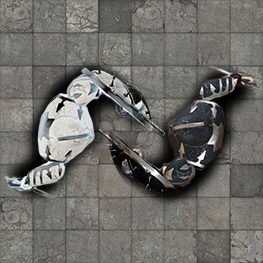
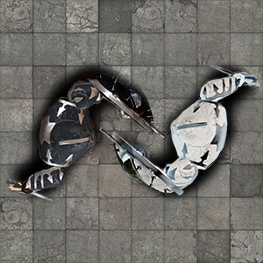
fix: Player direction.
Before this commit the player didn't change it's direction when moving. Now it does.

Changed region(s): [[0.0, 0.2433, 1.0, 0.7909]]

diff --git a/js/apiCalls.js b/js/apiCalls.js
@@ -122,8 +122,6 @@ function updateGameView(){
         bottom_right.setAttribute("style", 'background-image: url("assets/options/wallgif.gif");background-repeat: no-repeat;background-size: 101%;');
     }
 
-
-
     try{
         if(player.x === "0"){
             center_left.setAttribute("style", 'background-image: url("assets/options/wallgif.gif");background-repeat: no-repeat;background-size: 101%;');
@@ -154,7 +152,7 @@ function updateGameView(){
         } else if(map_objects[player.y][player.x] === 1){
             center_center.setAttribute("style", 'background-image: url("assets/options/loot.png");background-repeat: no-repeat;background-size: 101%;');
         } else {
-            center_center.setAttribute("style", 'background-image: url("assets/options/character.png");background-repeat: no-repeat;background-size: 101%;');
+            center_center.setAttribute("style", 'background-image: url("assets/options/character.png");background-repeat: no-repeat;background-size: 101%;transform:rotate('+ orientationFactor(player.direction) +'deg);');
         }
     } catch (e) {
         center_center.setAttribute("style", 'background-image: url("assets/options/wallgif.gif");background-repeat: no-repeat;background-size: 101%;');
@@ -179,8 +177,6 @@ function updateGameView(){
     } catch (e) {
         center_right.setAttribute("style", 'background-image: url("assets/options/wallgif.gif");background-repeat: no-repeat;background-size: 101%;');
     }
-
-
 
     try{
         if(player.x === "0"){
@@ -237,7 +233,6 @@ function updateGameView(){
     } catch (e) {
         top_right.setAttribute("style", 'background-image: url("assets/options/wallgif.gif");background-repeat: no-repeat;background-size: 101%;');
     }
-
 }
 
 function showHomeScreen(){

diff --git a/js/main.js b/js/main.js
@@ -39,19 +39,19 @@ document.addEventListener('keyup', (e) => {
     if(typeof player.name !== "undefined"){
         if(code === "UP"){
             fetchMovePlayer("N").then(() => {
-
+                player.direction = "N";
             })
         } else if (code === "DOWN"){
             fetchMovePlayer("S").then(() => {
-
+                player.direction = "S";
             })
         } else if (code === "LEFT"){
             fetchMovePlayer("O").then(() => {
-
+                player.direction = "O";
             })
         } else if (code === "RIGHT"){
             fetchMovePlayer("E").then(() => {
-
+                player.direction = "E";
             })
         }
 

diff --git a/js/player.js b/js/player.js
@@ -88,15 +88,19 @@ class Player {
         switch (direction) {
             case "N":
                 new_y += 1;
+                player.direction = "N";
                 break;
             case "S":
                 new_y -= 1;
+                player.direction = "S";
                 break;
             case "E":
                 new_x += 1;
+                player.direction = "E";
                 break;
             case "O":
                 new_x -= 1;
+                player.direction = "O";
                 break;
         }
         player.x = String(new_x);
